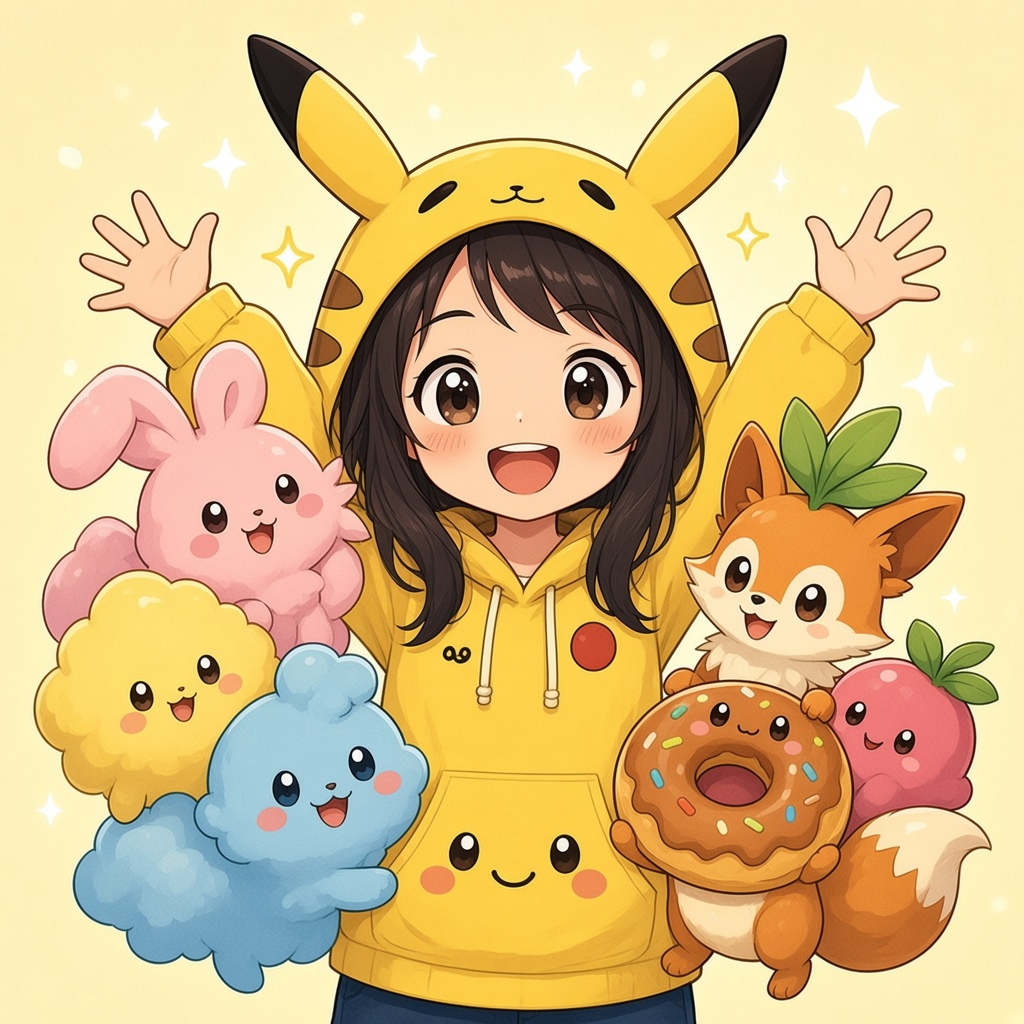
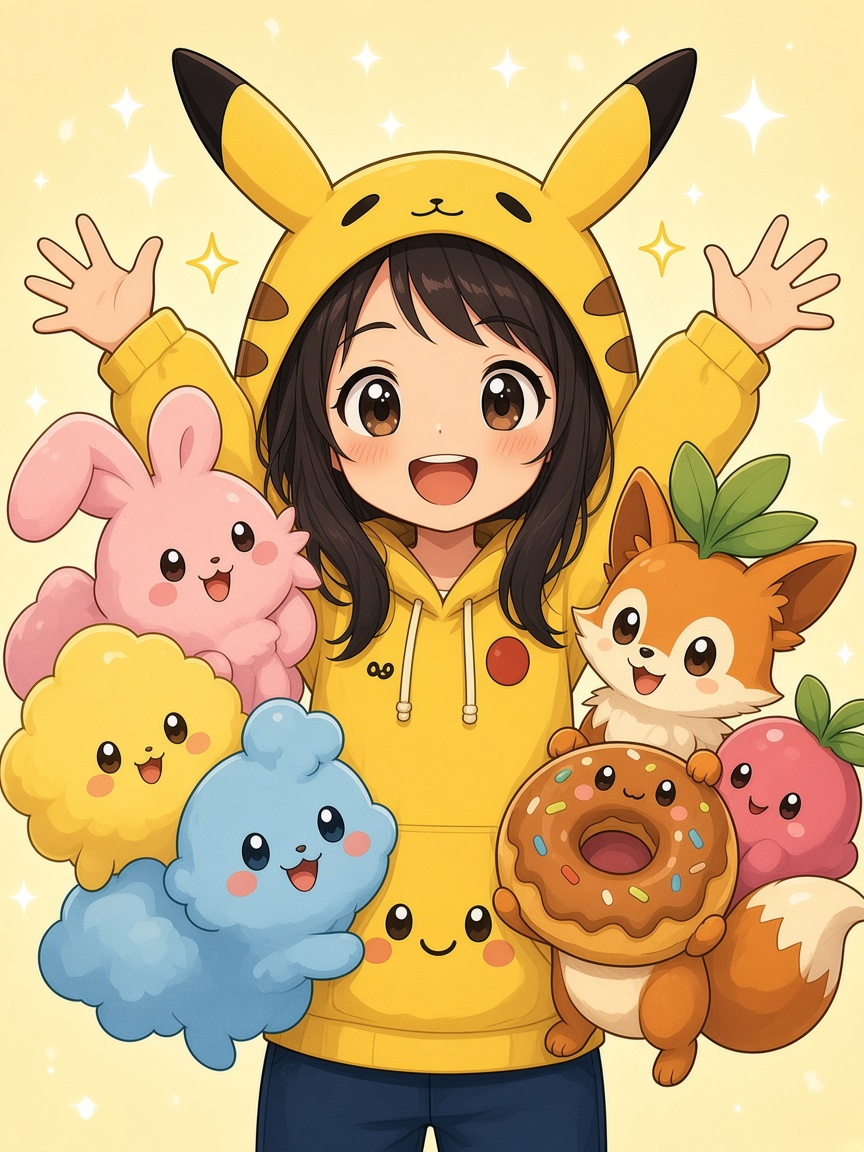
Fix card back: dense fill art, no clipped slogan
Replace the tiny square inset with a grid layout where the
illustration fills leftover height. Slogan, tagline, and footer
stay fully visible. Refresh themed kid+friends art for all four
chrome palettes; back preview matches print sheet size.

diff --git a/src/components/CardBack.tsx b/src/components/CardBack.tsx
@@ -8,7 +8,7 @@ type Props = {
   className?: string;
 };
 
-/** Painted center scene per chrome palette — kid + original friend creatures. */
+/** Painted kid + original friends — fills the back art plane per palette. */
 const BACK_ART: Record<PaletteId, string> = {
   electric: "/art/backs/friends-electric.jpg",
   autumn: "/art/backs/friends-autumn.jpg",
@@ -17,8 +17,9 @@ const BACK_ART: Record<PaletteId, string> = {
 };
 
 /**
- * General Dana & Friends play back (not invitation/QR).
- * Matches print-sheet reference layout; recolored per chrome palette.
+ * Dense Dana & Friends play back (not invitation/QR).
+ * Title → full-bleed illustration → slogan → tagline → footer.
+ * Nothing clips at phone or desktop sizes.
  */
 export function CardBack({ theme, className }: Props) {
   const ink = theme.id === "aura" ? "#EAF0FF" : theme.text;
@@ -31,98 +32,94 @@ export function CardBack({ theme, className }: Props) {
         : theme.id === "aura"
           ? "card-back-title--aura"
           : "card-back-title--sparkle";
+  const sloganColor = theme.id === "aura" ? "#FFE56A" : theme.accentDeep;
+  const footerColor = theme.id === "aura" ? "#A8C4FF" : theme.accentDeep;
 
   return (
     <article
-      className={`card-back relative flex aspect-[63/88] w-full flex-col overflow-hidden rounded-[22px] border-[7px] shadow-[0_12px_28px_rgba(0,0,0,.28)] ${className ?? ""}`}
+      className={`card-back relative flex aspect-[63/88] w-full flex-col overflow-hidden rounded-[18px] border-[6px] shadow-[0_12px_28px_rgba(0,0,0,.28)] sm:rounded-[22px] sm:border-[7px] ${className ?? ""}`}
       style={{
         borderColor: theme.border,
         background: `linear-gradient(180deg, ${theme.accentSoft} 0%, ${theme.accent} 55%, ${theme.accentDeep} 140%)`,
       }}
       data-card-side="back"
     >
+      {/*
+        Absolute inset panel with CSS grid so the illustration takes ALL leftover
+        height (1fr) while title/slogan/tagline/footer stay fully visible above
+        the hazard stripe — no tiny square inset, no clipped slogan.
+      */}
       <div
-        className="absolute inset-[10px] bottom-[18px] flex flex-col items-stretch rounded-[14px] border-[3px] px-2 pb-2 pt-2.5"
+        className="absolute inset-[7px] bottom-[11px] grid grid-rows-[auto_minmax(0,1fr)_auto_auto_auto] gap-[2px] rounded-[11px] border-[2.5px] px-1.5 pb-1 pt-1.5 sm:inset-[10px] sm:bottom-[14px] sm:gap-[3px] sm:rounded-[14px] sm:border-[3px] sm:px-2 sm:pb-1.5 sm:pt-2"
         style={{
           borderColor: theme.accentDeep,
           background: field,
           color: ink,
         }}
       >
-        <div className="pointer-events-none absolute left-1.5 top-1.5 z-20">
-          <FriendBadge size={14} />
+        <div className="pointer-events-none absolute left-1 top-1 z-20 sm:left-1.5 sm:top-1.5">
+          <FriendBadge size={12} />
         </div>
-        <div className="pointer-events-none absolute right-1.5 top-1.5 z-20">
-          <FriendBadge size={14} />
+        <div className="pointer-events-none absolute right-1 top-1 z-20 sm:right-1.5 sm:top-1.5">
+          <FriendBadge size={12} />
         </div>
-        <div className="pointer-events-none absolute bottom-1.5 left-1.5 z-20">
-          <MotifIcon motif={theme.motif} size={14} />
+        <div className="pointer-events-none absolute bottom-1 left-1 z-20 sm:bottom-1.5 sm:left-1.5">
+          <MotifIcon motif={theme.motif} size={12} />
         </div>
-        <div className="pointer-events-none absolute bottom-1.5 right-1.5 z-20">
-          <MotifIcon motif={theme.motif} size={14} />
+        <div className="pointer-events-none absolute bottom-1 right-1 z-20 sm:bottom-1.5 sm:right-1.5">
+          <MotifIcon motif={theme.motif} size={12} />
         </div>
 
         <h2
-          className={`font-display relative z-10 shrink-0 text-center text-[1.35rem] font-bold leading-none tracking-tight sm:text-[1.55rem] ${titleClass}`}
+          className={`font-display relative z-10 px-2 text-center text-[0.95rem] font-bold leading-[1.05] tracking-tight sm:px-3 sm:text-[1.45rem] ${titleClass}`}
         >
           Dana &amp; Friends
         </h2>
 
-        {/* Fixed aspect so the painted scene stays large (not a CSS collapse). */}
+        {/* Fills every leftover pixel — dense like the print reference */}
         <div
-          className="relative z-10 mx-auto mt-1.5 w-[94%] shrink-0 overflow-hidden rounded-[12px] border-[2.5px]"
-          style={{
-            borderColor: theme.accentDeep,
-            background: theme.accentSoft,
-            aspectRatio: "1 / 1",
-            maxHeight: "58%",
-          }}
+          className="relative z-10 min-h-0 w-full overflow-hidden rounded-[8px] border-[2px] sm:rounded-[12px] sm:border-[2.5px]"
+          style={{ borderColor: theme.accentDeep, background: theme.accentSoft }}
         >
           {/* eslint-disable-next-line @next/next/no-img-element */}
           <img
             src={BACK_ART[theme.id]}
-            alt="Kid in sun hoodie with original friend creatures"
-            className="h-full w-full object-cover object-[center_30%]"
+            alt="Kid in theme hoodie with original friend creatures"
+            className="absolute inset-0 h-full w-full object-cover object-[center_26%]"
             draggable={false}
           />
         </div>
 
-        <div className="relative z-10 mt-auto flex shrink-0 flex-col gap-1 pt-1.5">
-          <p
-            className="text-center font-display text-[0.78rem] font-bold uppercase tracking-wide sm:text-[0.88rem]"
-            style={{
-              color: theme.id === "aura" ? "#FFE56A" : theme.accentDeep,
-            }}
-          >
-            Let’s play together!
-          </p>
+        <p
+          className="relative z-10 px-1 text-center font-display text-[0.62rem] font-bold uppercase leading-tight tracking-wide sm:text-[0.88rem]"
+          style={{ color: sloganColor }}
+        >
+          Let’s play together!
+        </p>
 
-          <div
-            className="mx-1 rounded-xl border-[2.5px] px-2 py-1 text-center font-display text-[0.66rem] font-bold leading-tight sm:text-[0.72rem]"
-            style={{
-              borderColor: theme.accentDeep,
-              background: theme.accentSoft,
-              color: theme.id === "aura" ? theme.accentDeep : theme.text,
-            }}
-          >
-            Endless Energy &amp; Friendship!
-          </div>
-
-          <p
-            className="text-center text-[0.5rem] font-bold uppercase tracking-[0.12em] opacity-85"
-            style={{
-              color: theme.id === "aura" ? "#A8C4FF" : theme.accentDeep,
-            }}
-          >
-            Dana’s Special Card • 2026
-          </p>
+        <div
+          className="relative z-10 mx-0.5 rounded-lg border-[2px] px-1 py-[3px] text-center font-display text-[0.52rem] font-bold leading-tight sm:rounded-xl sm:border-[2.5px] sm:px-1.5 sm:py-1 sm:text-[0.72rem]"
+          style={{
+            borderColor: theme.accentDeep,
+            background: theme.accentSoft,
+            color: theme.id === "aura" ? theme.accentDeep : theme.text,
+          }}
+        >
+          Endless Energy &amp; Friendship!
         </div>
+
+        <p
+          className="relative z-10 px-1 pb-0.5 text-center text-[0.42rem] font-bold uppercase leading-tight tracking-[0.08em] opacity-90 sm:text-[0.55rem] sm:tracking-[0.1em]"
+          style={{ color: footerColor }}
+        >
+          Dana’s Special Card • 2026
+        </p>
       </div>
 
       <div
-        className="pointer-events-none absolute bottom-0 left-0 right-0 z-10 h-[12px]"
+        className="pointer-events-none absolute bottom-0 left-0 right-0 z-10 h-[9px] sm:h-[12px]"
         style={{
-          background: `repeating-linear-gradient(135deg, #111 0 9px, ${theme.accent} 9px 18px)`,
+          background: `repeating-linear-gradient(135deg, #111 0 8px, ${theme.accent} 8px 16px)`,
         }}
       />
     </article>

diff --git a/src/components/CardStudio.tsx b/src/components/CardStudio.tsx
@@ -570,14 +570,14 @@ export function CardStudio() {
             <CardFront data={data} />
           </div>
 
-          <div className="mx-auto grid w-full max-w-[400px] grid-cols-2 gap-3">
+          <div className="mx-auto w-full max-w-[400px] space-y-3">
             <div>
               <p className="mb-1 text-center text-[10px] font-bold uppercase tracking-wider text-black/50">
                 Back
               </p>
               <CardBack theme={theme} />
             </div>
-            <div className="flex flex-col justify-end gap-2">
+            <div className="grid grid-cols-1 gap-2 sm:grid-cols-3">
               <button
                 type="button"
                 disabled={busy}
